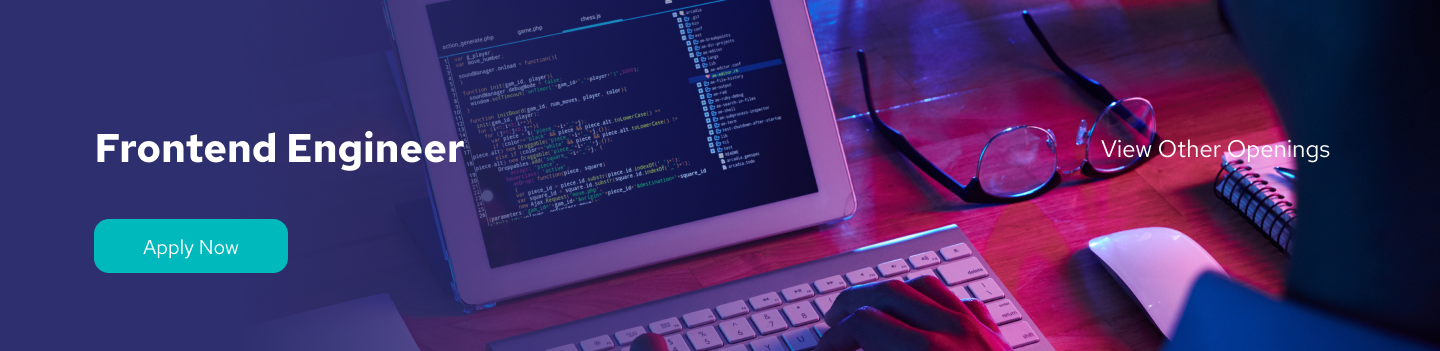
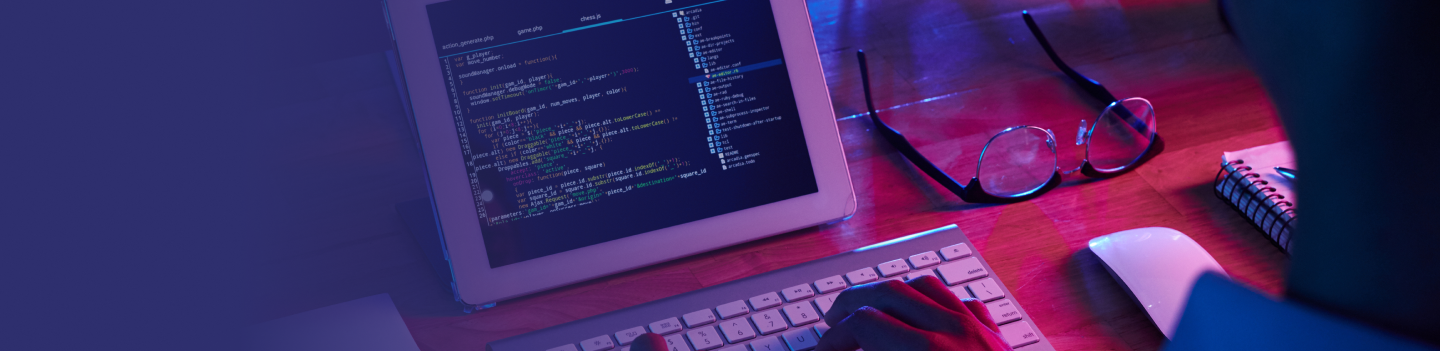
implemented the hero section for jobs page

Changed region(s): [[0.0625, 0.6268, 0.2188, 0.7977], [0.0625, 0.3704, 0.3438, 0.4843], [0.75, 0.3989, 0.9375, 0.4558]]

diff --git a/src/App.css b/src/App.css
@@ -58,7 +58,7 @@
 /*--------------------------------------------------------------
 # Call to action
 --------------------------------------------------------------*/
-@import url('https://fonts.googleapis.com/css2?family=Red+Hat+Display:ital,wght@0,300;0,400;0,500;0,600;0,700;0,800;0,900;1,300;1,400;1,500;1,600;1,700;1,800;1,900&display=swap');
+@import url("https://fonts.googleapis.com/css2?family=Red+Hat+Display:ital,wght@0,300;0,400;0,500;0,600;0,700;0,800;0,900;1,300;1,400;1,500;1,600;1,700;1,800;1,900&display=swap");
 @use "sass:math";
 /*--------------------------------------------------------------
 # Normalize
@@ -73,11 +73,11 @@ html {
 
 body {
   margin: 0;
-  overflow-x: hidden!important;
+  overflow-x: hidden !important;
 }
 
 .white-color {
-  color: white
+  color: white;
 }
 
 article,
@@ -551,25 +551,25 @@ h6,
   font-family: "Red Hat Display", sans-serif;
   font-weight: 900;
   clear: both;
-  color: #2E2F6E;
+  color: #2e2f6e;
   word-wrap: break-word;
   overflow-wrap: break-word;
 }
 
 .products-h1 {
-  margin-top: -200px!important
+  margin-top: -200px !important;
 }
 
 .subform-width {
-  width: 50%!important;
+  width: 50% !important;
 }
 
-@media(max-width: 768px) {
+@media (max-width: 768px) {
   .products-h1 {
-    margin-top: 0px!important
+    margin-top: 0px !important;
   }
   .subform-width {
-    width: 100%!important;
+    width: 100% !important;
   }
 }
 
@@ -2570,17 +2570,17 @@ textarea.form-input {
 --------------------------------------------------------------*/
 .hero-h1 {
   font-weight: 900;
-  color: "#2E2F6E"
+  color: "#2E2F6E";
 }
 
 .hero-lines {
-  position: absolute; 
-  top: 0; 
+  position: absolute;
+  top: 0;
   margin-top: 80px;
   z-index: -1;
 }
 
-@media(max-width: 768px) {
+@media (max-width: 768px) {
   .hero-lines {
     position: relative;
     margin-top: -280px;
@@ -3643,7 +3643,7 @@ img.has-shadow {
 }
 
 .services_ > h3 {
-  color: white
+  color: white;
 }
 
 .space-guy {
@@ -3654,12 +3654,12 @@ img.has-shadow {
   display: block;
 }
 
-@media(max-width: 768px) {
+@media (max-width: 768px) {
   .space-guy {
     margin-top: -20rem;
   }
   .extra-space {
-    display: none!important;
+    display: none !important;
   }
 }
 
@@ -4259,6 +4259,12 @@ img.has-shadow {
   .Answer-dotted {
     display: none;
   }
+}
+
+.Hero-Banner-Job {
+  background-image: url("./assets//images//section/FrontendDescPage/Hero-image-gradient.png");
+  background-repeat: no-repeat;
+  background-size: cover;
 }
 
 /*# sourceMappingURL=style.css.map */

diff --git a/src/components/sections/job-description/Hero.js b/src/components/sections/job-description/Hero.js
@@ -1,0 +1,71 @@
+import { Container, Grid, Typography } from "@mui/material";
+import { Link } from "react-router-dom";
+import React from "react";
+import PrimaryButton from "../../elements/PrimaryButton";
+import classNames from 'classnames';
+import { SectionProps } from '../../../utils/SectionProps';
+
+const propTypes = {
+  ...SectionProps.types
+}
+
+const defaultProps = {
+  ...SectionProps.defaults
+}
+
+
+export default function Hero({
+    className,
+    topOuterDivider,
+    bottomOuterDivider,
+    topDivider,
+    bottomDivider,
+    hasBgColor,
+    invertColor,
+    ...props
+  }) {
+
+    const outerClasses = classNames(
+        'hero section center-content Hero-Banner-Job',
+        topOuterDivider && 'has-top-divider',
+        bottomOuterDivider && 'has-bottom-divider',
+        hasBgColor && 'has-bg-color',
+        invertColor && 'invert-color',
+        className
+      );
+    
+      const innerClasses = classNames(
+        'hero-inner section-inner',
+        topDivider && 'has-top-divider',
+        bottomDivider && 'has-bottom-divider'
+      );
+
+    return(
+        <section
+            {...props}
+            className={outerClasses}
+        >
+        <div className="container-sm">
+          <div className={innerClasses}>
+                <Grid container spacing={5}>
+                <Grid item xs={12} sm={6} md={6} style={{}} className="btns">
+                {/* <p className="m-0 reveal-from-bottom primary-color" data-reveal-delay="400"><b>OONFTs</b></p> */}
+                <h1 className="hero-h1 mt-0 mb-16 reveal-from-bottom hero-h1-banner" data-reveal-delay="200" style={{color: '#00B9BC'}}>
+                    Work With Us
+                </h1>
+                <Link to="/job-application">
+                    <PrimaryButton text={'Apply Now'} bgColor={'#00B9BC'} />
+                </Link>
+                </Grid>
+                <Grid item xs={12} sm={6} md={6} style={{ textAlign: 'right', paddingTop: '5%'}} className="btns">
+                    <p className=" reveal-from-bottom hero-subtitle" data-reveal-delay="400">
+                    View Other Openings
+                    </p>
+                </Grid>
+                </Grid>
+
+            </div>
+            </div>
+        </section>
+    )
+}

diff --git a/src/components/sections/career/Hero.js b/src/components/sections/career/Hero.js
@@ -1,10 +1,12 @@
 import React from 'react';
 import { Button, Grid } from '@mui/material';
 import classNames from 'classnames';
+import { Link } from 'react-router-dom';
 import { SectionProps } from '../../../utils/SectionProps';
 import Image from '../../elements/Image';
 
 import DottedImage from '../../../assets/images/section/TeamsPage/Hero-dotted-design.svg'
+import PrimaryButton from '../../elements/PrimaryButton';
 
 const propTypes = {
   ...SectionProps.types
@@ -56,10 +58,10 @@ const Hero = ({
               <p className="m-0 mb-32 reveal-from-bottom hero-subtitle" data-reveal-delay="400">
                 We are a Nigeria-based startup & we are ready for new talent to join our company.
               </p>
-              <Button variant="contained" 
-                    sx={{width: '200px', bgcolor: '#00B9BC', mt: '5px', boxShadow: 'none' }}
-                > View Jobs</Button>
-            </Grid>
+              <Link to="/job-description">
+              <PrimaryButton text={'View Jobs'} bgColor={'#00B9BC'}/>
+              </Link>
+              </Grid>
             <Grid item xs={12} sm={6} md={6}>
               <Image
                 className='hero-dotted'

diff --git a/src/views/JobDescription.js b/src/views/JobDescription.js
@@ -1,11 +1,12 @@
 import React from 'react'
+import Hero from '../components/sections/job-description/Hero'
 import LayoutDefault from '../layouts/LayoutDefault'
 
 const JobDescription = () => {
   return (
     <LayoutDefault>
         <div style={{marginTop: "100px"}}>
-            <h1>Job Description</h1>
+            <Hero/>
         </div>
         
     </LayoutDefault>
